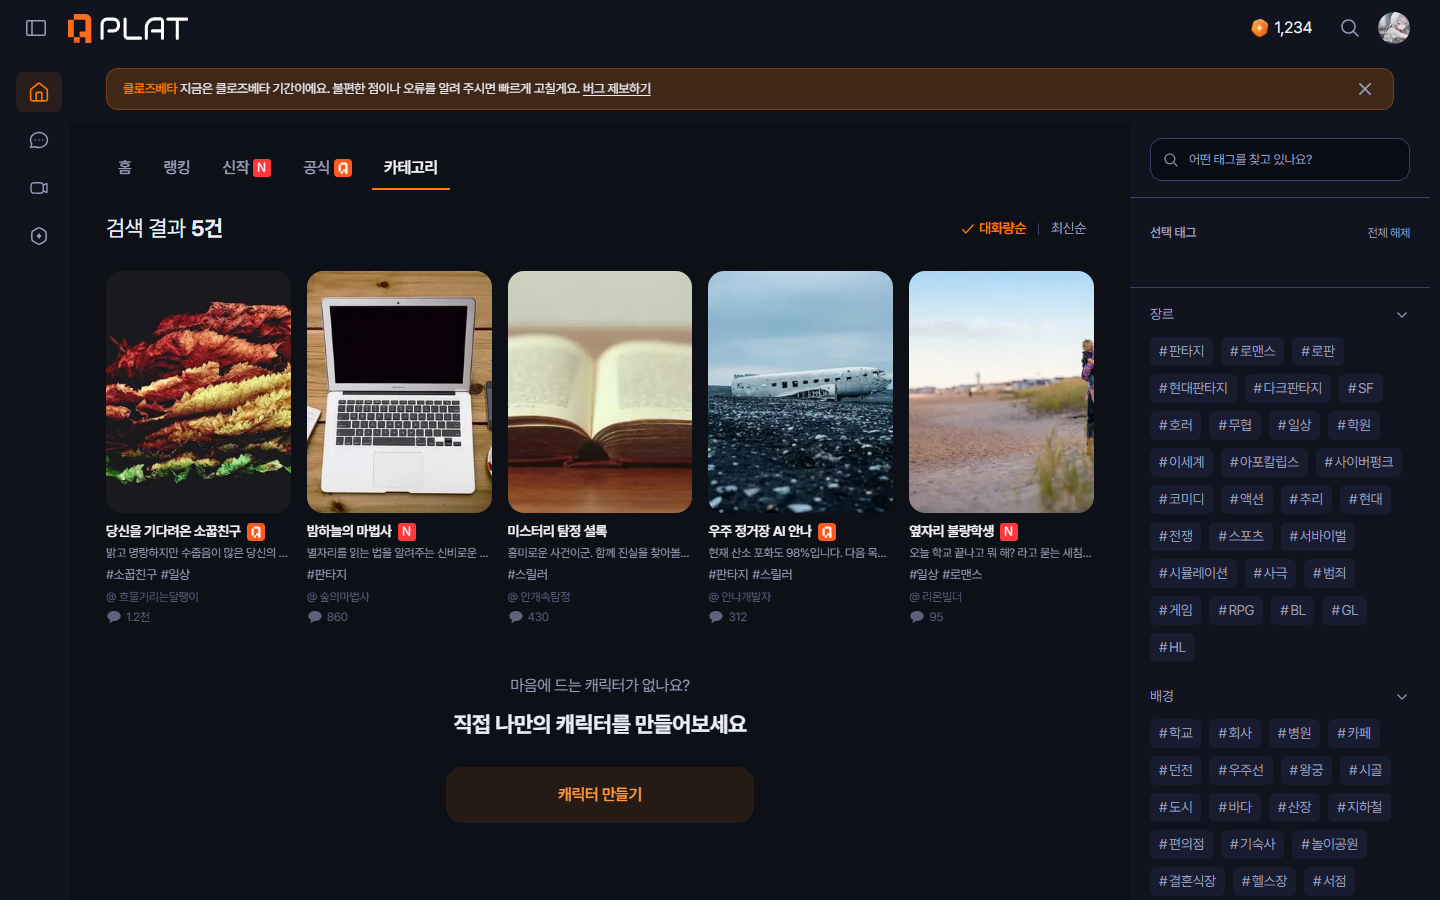
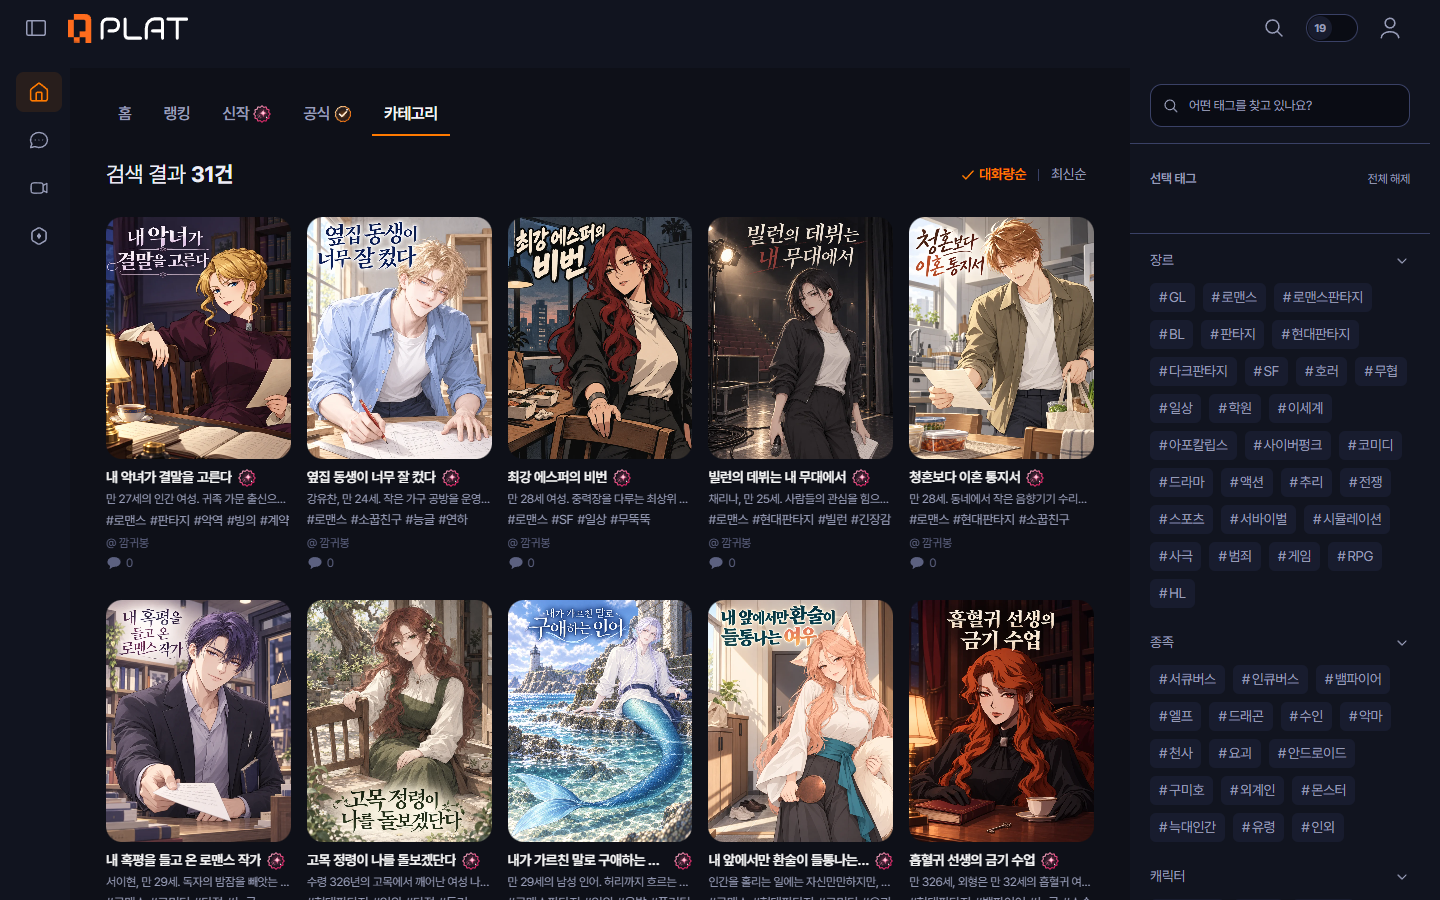
📝 docs(user-guide): 화면 이미지를 운영 서버(plat.so) 화면으로 교체
- assets/screens 16장을 개발 서버 목업 화면에서 운영 화면(1440x900, 다크)으로 다시 찍음
- 클로즈베타 안내 띠는 기간 한정이라 닫고 찍음
- 운영 화면과 달라진 설명 수정: 홈(상단 배너 없음), 채팅방 설정(답변 길이),
  캐릭터 만들기 설정 탭(성인 콘텐츠·채팅방 기본 보기), 크리에이터 센터 수익 탭, 프로필 메뉴(설정)

diff --git a/ko/01-user-guide/03-screens/07-earnings-screen.md b/ko/01-user-guide/03-screens/07-earnings-screen.md
@@ -7,7 +7,7 @@ summary: 내 캐릭터로 쌓인 수익 포인트를 보고, 등급을 올리고
 
 ![크리에이터 센터 수익 화면](/assets/screens/earnings.png)
 
-*크리에이터 센터의 수익 화면이에요. 위에서 교환 가능한 포인트를 확인하고 "전환"으로 노트로 바꾸거나 "내역"을 볼 수 있어요. 아래에서는 상품권으로 교환해요. 화면 속 숫자는 예시예요.*
+*크리에이터 센터의 수익 탭이에요. 맨 위에서 교환 가능한 포인트를 확인하고 "전환"으로 노트로 바꾸거나 "내역"을 볼 수 있어요. 그 아래에 내일 정산 예정 · 전환 대기 · 30일 내 소멸 예정 포인트와 수익 캘린더가 이어져요.*
 
 ## 수익 탭
 

diff --git a/ko/01-user-guide/03-screens/06-my-page.md b/ko/01-user-guide/03-screens/06-my-page.md
@@ -10,7 +10,7 @@ summary: 내 활동과 설정을 한곳에 모아 보는 곳이에요.
 *오른쪽 위 프로필 이미지를 누르면 열려요. 활동과 문의 및 설정 메뉴가 모여 있어요.*
 
 - **활동** — 노트 충전, 크리에이터 센터, 내 페르소나, 콘텐츠 설정
-- **문의 및 설정** — 공지사항, 문서, 고객센터, 신고 내역, 버그 제보
+- **문의 및 설정** — 공지사항, 문서, 고객센터, 버그 제보, 신고 내역, 설정
 
 로그인하지 않았다면 이 자리에 **카카오 계정으로 시작하기 · 구글 계정으로 시작하기 · 다른 방법으로 로그인하기** 버튼이 보여요. 로그아웃도 여기서 할 수 있어요.
 
